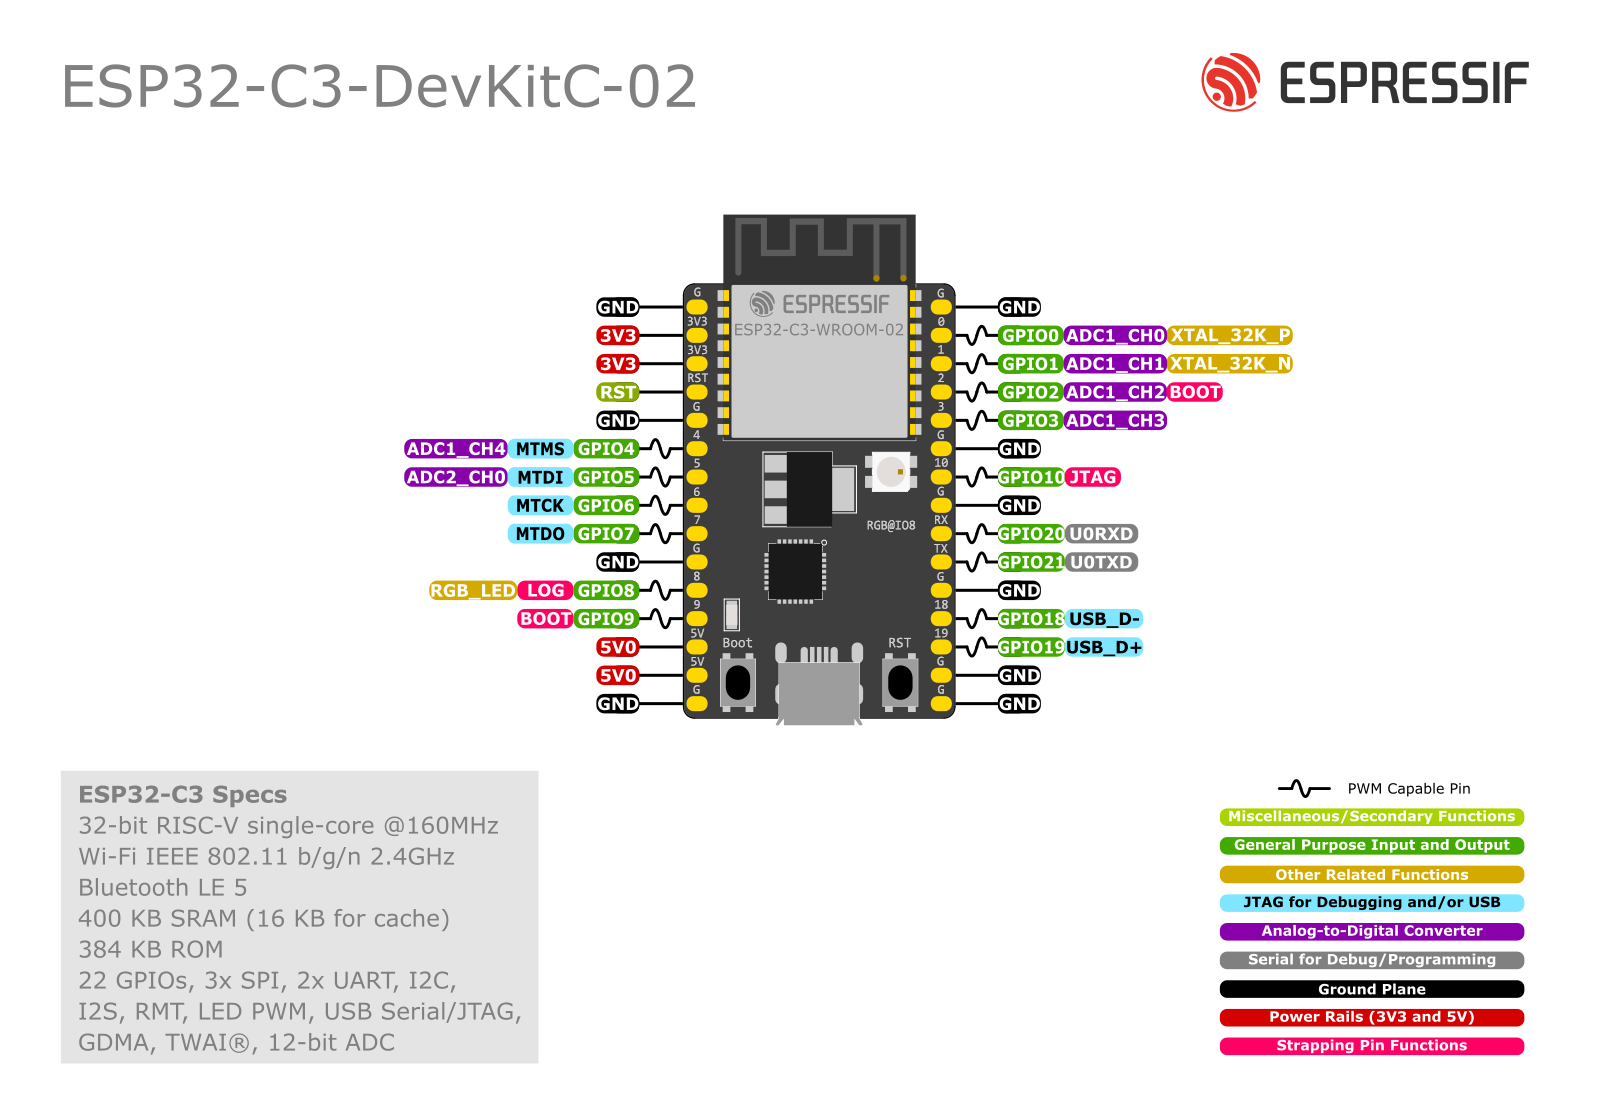
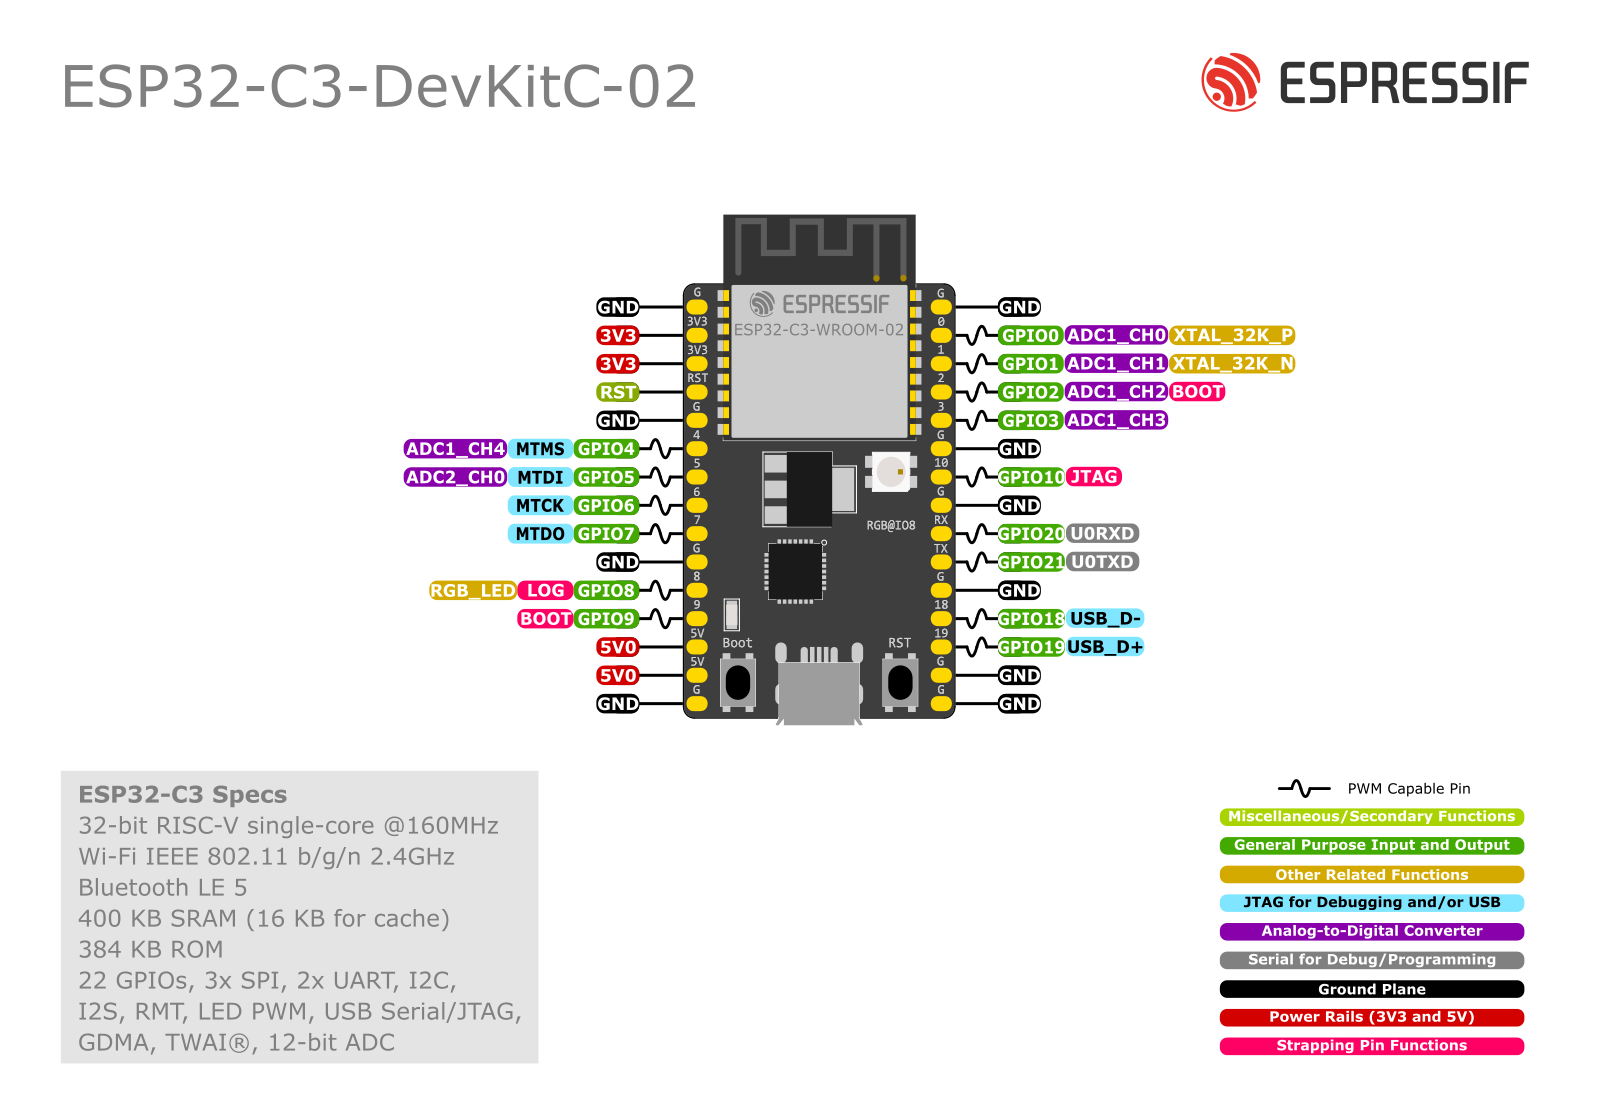
Docs: Added missing USB functions to ESP32-C3 DevKit User Guides

Changed region(s): [[0.6562, 0.2812, 0.8125, 0.4375], [0.6562, 0.4688, 0.7188, 0.5938], [0.25, 0.375, 0.3125, 0.4375]]

diff --git a/docs/en/hw-reference/esp32c3/user-guide-devkitc-02.rst b/docs/en/hw-reference/esp32c3/user-guide-devkitc-02.rst
@@ -70,7 +70,6 @@ The key components of the board are described in a counter-clockwise direction.
    * - RGB LED
      - Addressable RGB LED, driven by GPIO8.
 
-
 Start Application Development
 -----------------------------
 
@@ -104,7 +103,6 @@ Retail Orders
 If you order a few samples, each ESP32-C3-DevKitC-02 comes in an individual package in either antistatic bag or any packaging depending on your retailer.
 
 For retail orders, please go to https://www.espressif.com/en/contact-us/get-samples.
-
 
 Wholesale Orders
 ^^^^^^^^^^^^^^^^
@@ -192,8 +190,8 @@ No.  Name  Type [1]_   Function
 9    RX    I/O/T       GPIO20, U0RXD
 10   TX    I/O/T       GPIO21, U0TXD
 11   G     G           Ground
-12   18    I/O/T       GPIO18
-13   19    I/O/T       GPIO19
+12   18    I/O/T       GPIO18, USB_D-
+13   19    I/O/T       GPIO19, USB_D+
 14   G     G           Ground
 15   G     G           Ground
 ===  ====  ==========  ====================================
@@ -207,7 +205,7 @@ Pin Layout
 
 .. figure:: ../../../_static/esp32-c3-devkitc-02-v1-pinout.png
     :align: center
-    :scale: 50%
+    :scale: 45%
     :alt: ESP32-C3-DevKitC-02 (click to enlarge)
     :figclass: align-center
 
@@ -232,7 +230,6 @@ Related Documents
 * `ESP32-C3-DevKitC-02 Dimensions source file <https://dl.espressif.com/dl/schematics/DXF_ESP32-C3-DevKitC-02_V1_1_20210121AA.dxf>`_ (DXF) - You can view it with `Autodesk Viewer <https://viewer.autodesk.com/>`_ online
 
 For further design documentation for the board, please contact us at `sales@espressif.com <sales@espressif.com>`_.
-
 
 .. _ESP32-C3 Datasheet: https://www.espressif.com/sites/default/files/documentation/esp32-c3_datasheet_en.pdf
 .. _ESP32-C3-WROOM-02 Datasheet: https://www.espressif.com/sites/default/files/documentation/esp32-c3-wroom-02_datasheet_en.pdf

diff --git a/docs/zh_CN/hw-reference/esp32c3/user-guide-devkitc-02.rst b/docs/zh_CN/hw-reference/esp32c3/user-guide-devkitc-02.rst
@@ -192,23 +192,21 @@ J3
 9     RX    I/O/T        GPIO20, U0RXD
 10    TX    I/O/T        GPIO21, U0TXD
 11    G     G            接地
-12    18    I/O/T        GPIO18
-13    19    I/O/T        GPIO19
+12    18    I/O/T        GPIO18, USB_D-
+13    19    I/O/T        GPIO19, USB_D+
 14    G     G            接地
 15    G     G            接地
 ====  ====  ==========  ================================
 
-
 .. [1] P：电源；I：输入；O：输出；T：可设置为高阻。
 .. [2] GPIO2、GPIO8、GPIO9 为 ESP32-C3 芯片的 Strapping 管脚。在芯片上电和系统复位过程中，Strapping 管脚根据管脚的二进制电压值控制芯片功能。Strapping 管脚的具体描述和应用，请参考 `ESP32-C3 技术规格书`_ 的 Strapping 管脚章节。
-
 
 管脚布局
 ^^^^^^^^
 
 .. figure:: ../../../_static/esp32-c3-devkitc-02-v1-pinout.png
     :align: center
-    :scale: 50%
+    :scale: 45%
     :alt: ESP32-C3-DevKitC-02 管脚布局（点击放大）
     :figclass: align-center
 

diff --git a/docs/zh_CN/hw-reference/esp32c3/user-guide-devkitm-1.rst b/docs/zh_CN/hw-reference/esp32c3/user-guide-devkitm-1.rst
@@ -193,8 +193,8 @@ J3
 10    IO5   I/O/T       GPIO5, ADC2_CH0, FSPIWP, MTDI
 11    IO4   I/O/T       GPIO4, ADC1_CH4, FSPIHD, MTMS
 12    GND   G           接地
-13    IO18  I/O/T       GPIO18
-14    IO19  I/O/T       GPIO19
+13    IO18  I/O/T       GPIO18, USB_D-
+14    IO19  I/O/T       GPIO19, USB_D+
 15    GND   G           接地
 ====  ====  ==========  ================================
 
